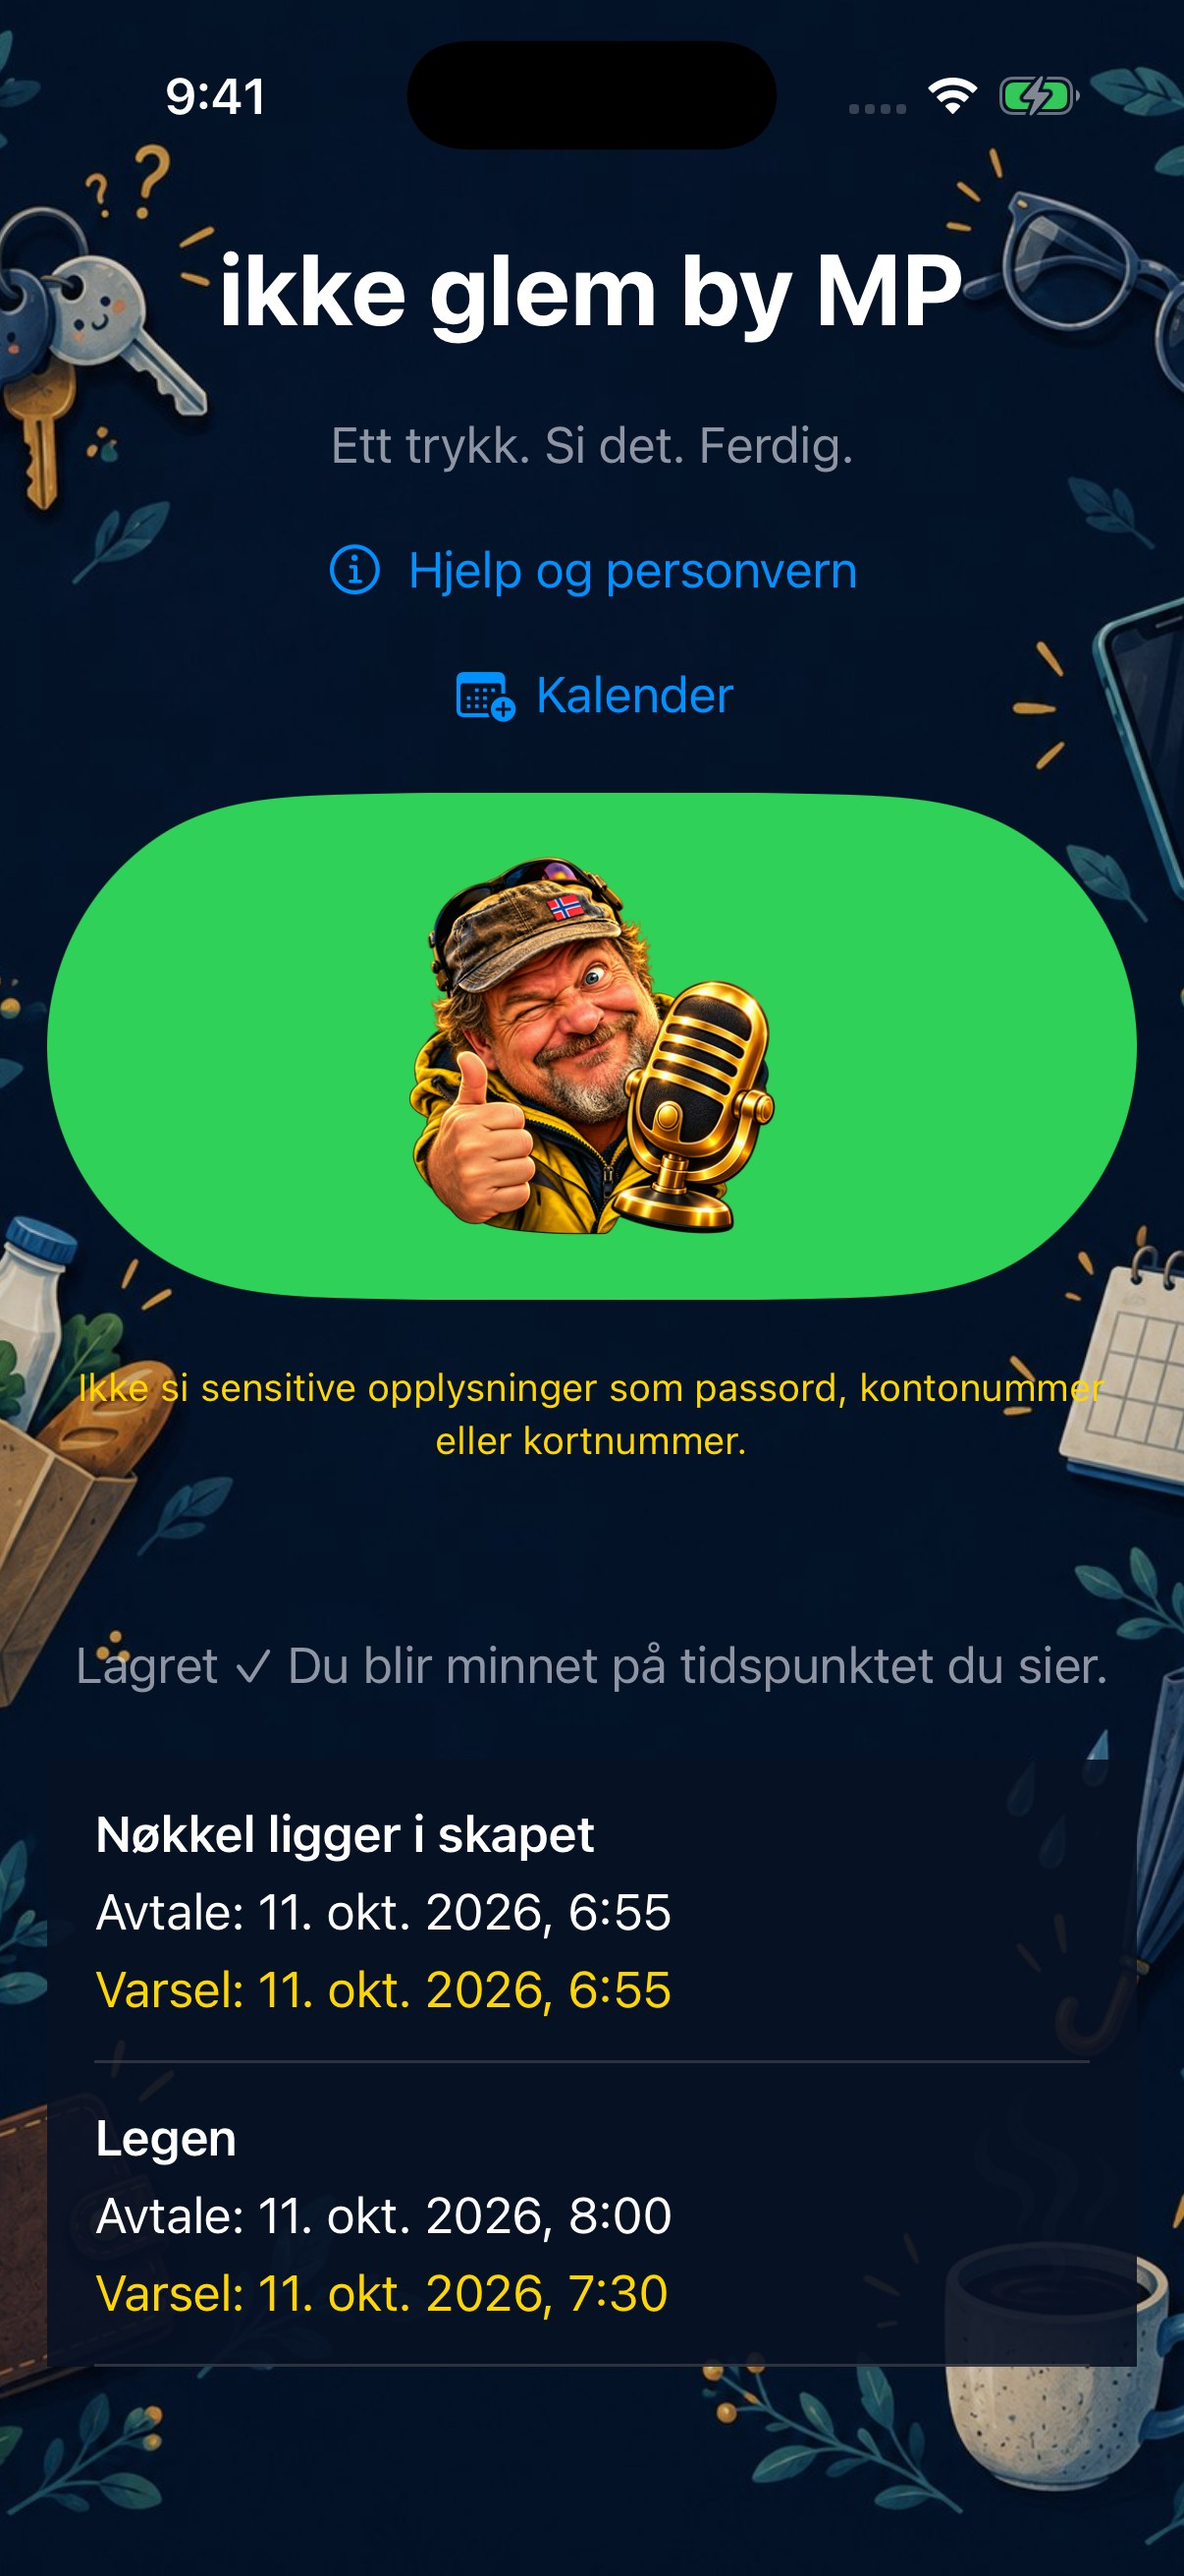
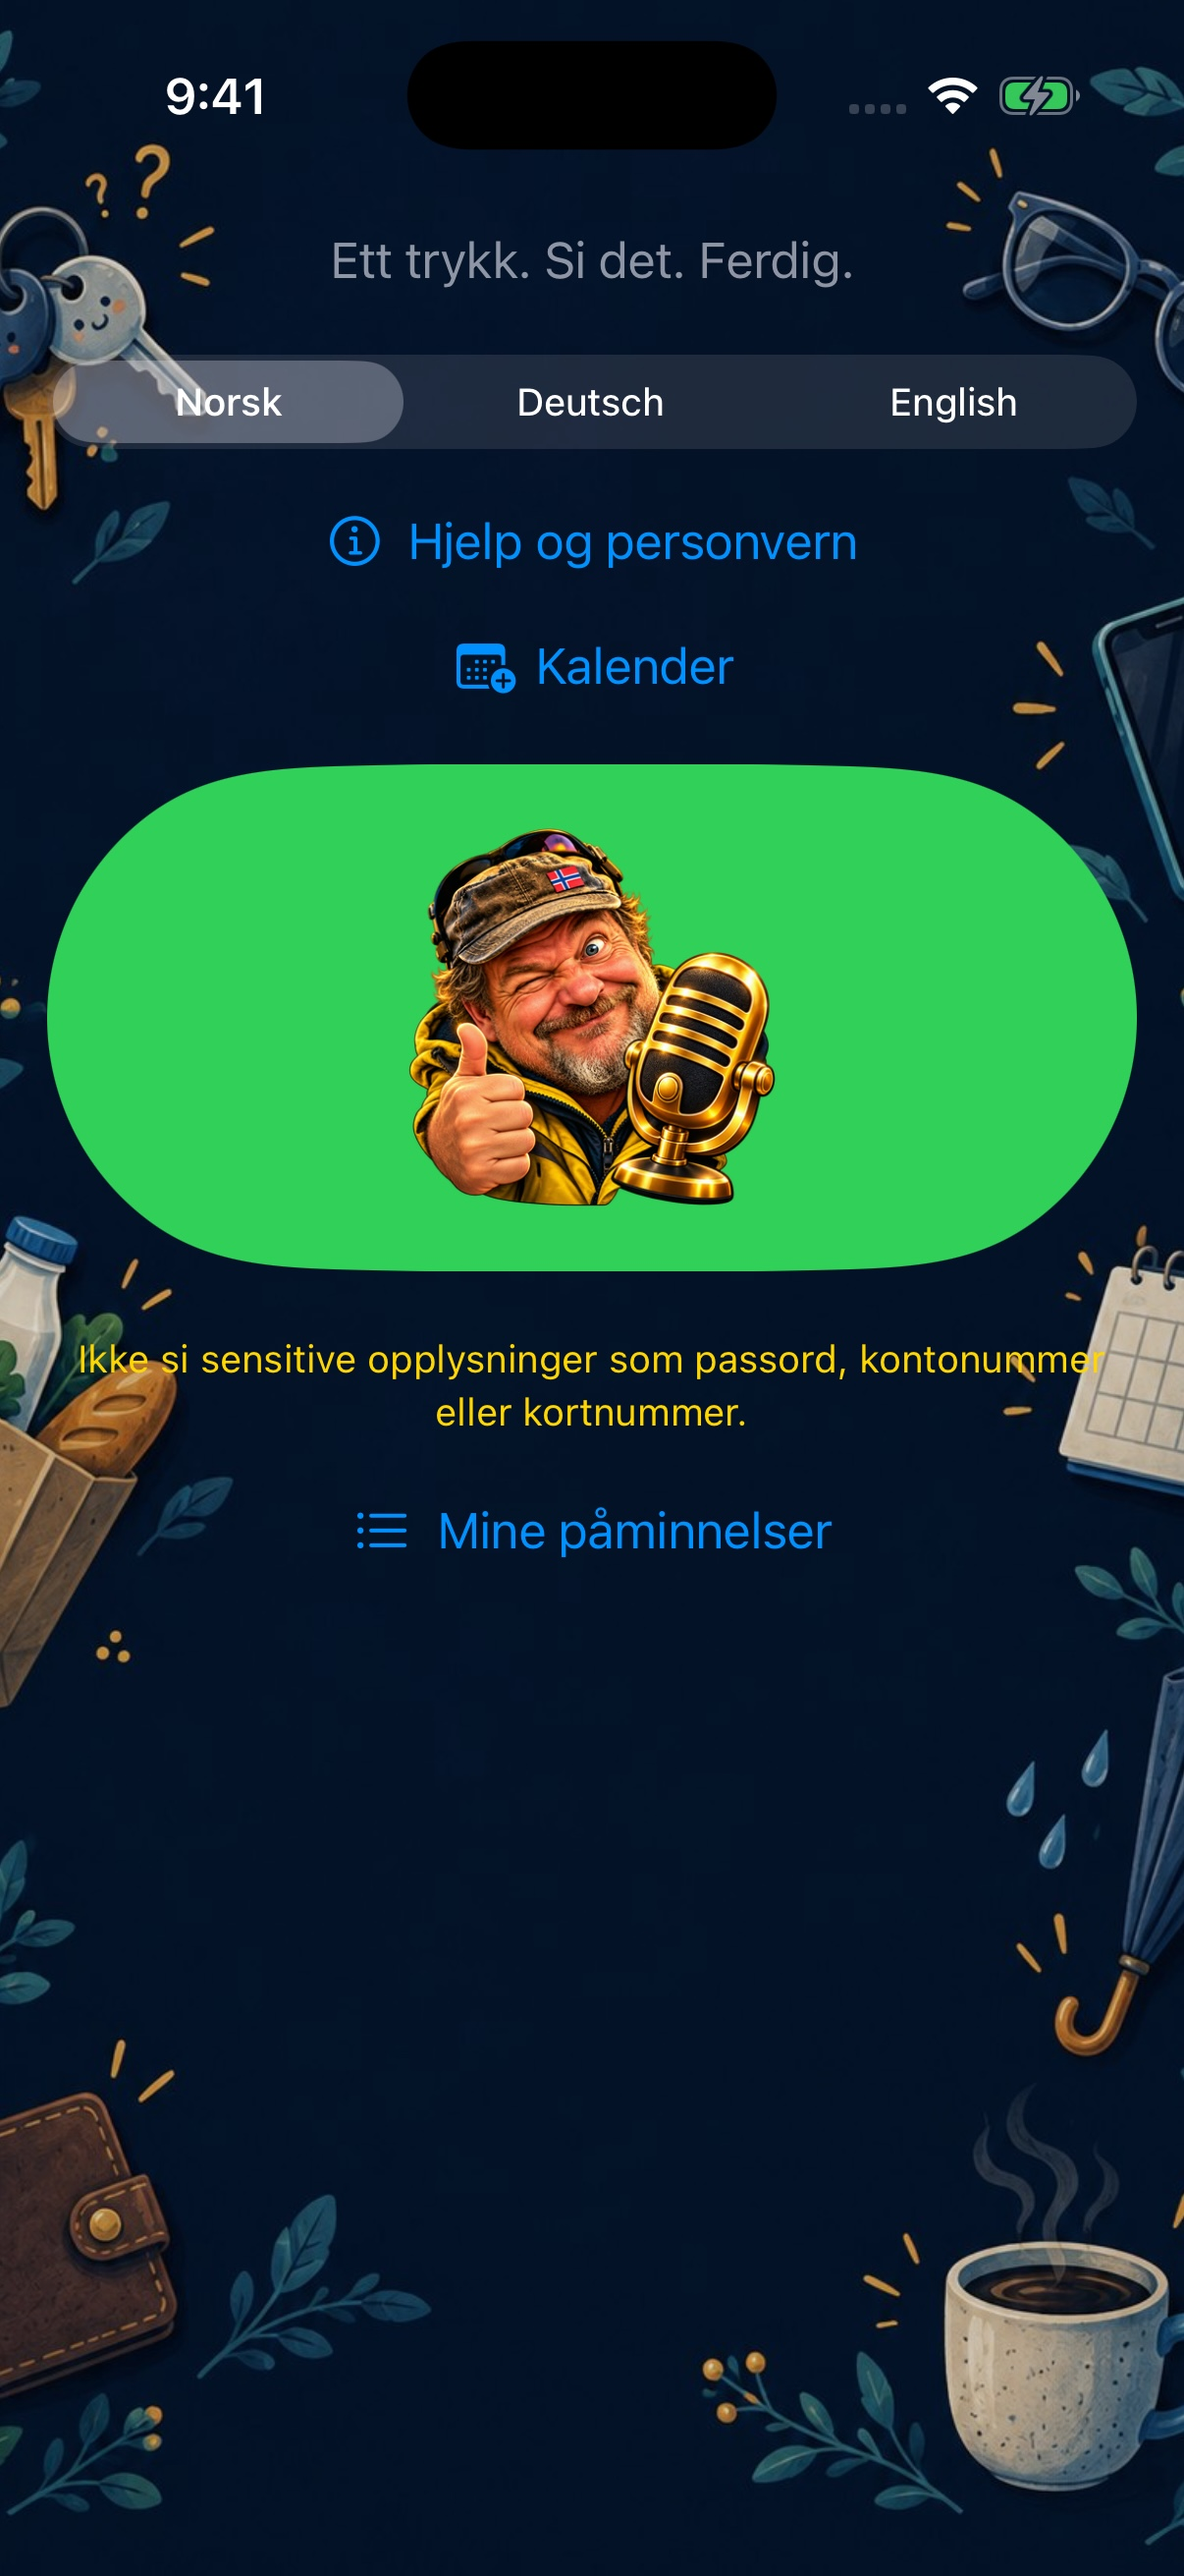
Prepare German, Norwegian and English store listings with Build 6 screenshots

diff --git a/ios/AppStore/metadata-de.md b/ios/AppStore/metadata-de.md
@@ -1,0 +1,60 @@
+# App Store Connect – Deutsch – Version 1.0, Build 6
+
+Name: ikke glem by MP
+Untertitel: Sagen. Merken. Erinnern.
+Kategorie: Produktivität
+
+## Werbetext
+Einmal tippen, sprechen und zur gewünschten Zeit erinnert werden. Auf Deutsch, Norwegisch oder Englisch – mit Kalenderwahl und Adressen in Maps.
+
+## Beschreibung
+Einmal tippen. Sprechen. Fertig.
+
+Mit ikke glem by MP machst du gesprochene Alltagsnotizen zu Erinnerungen auf deinem iPhone. Wähle Deutsch, Norwegisch oder Englisch, tippe auf den grünen Sprachbutton und sage, was du dir merken möchtest und wann du erinnert werden willst.
+
+Zum Beispiel:
+• „Erinnere mich in zehn Minuten.“
+• „Der Schlüssel liegt im Schrank, erinnere mich um 655.“
+• „Arzt morgen um 18 Uhr, erinnere mich um 17:41.“
+• „Arzt morgen um acht, erinnere mich dreißig Minuten vorher.“
+
+Du bestimmst die Erinnerungszeit. Ohne eigene Alarmzeit erinnert dich die App zum Termin. Prüfe nach dem Speichern den erkannten Text und die angezeigten Zeiten.
+
+Das iPhone stellt lokale Mitteilungen auch bei geschlossener App zu. Der Alarmton folgt deinen Einstellungen für Ton, Fokus und Mitteilungen. Die App ist kein kritischer Systemwecker.
+
+Gesprochener Text, Meldungen und die Erinnerungsliste werden nach zehn Sekunden ausgeblendet. Deine Erinnerungen bleiben gespeichert und lassen sich über „Meine Erinnerungen“ wieder anzeigen.
+
+Du entscheidest bei jeder Erinnerung selbst, ob sie zusätzlich in den Kalender übernommen wird. Ein Google-Kalender kann verwendet werden, wenn das Konto bereits in den Kalenderaccounts deines iPhones eingerichtet ist. Adressen lassen sich in Apple Maps öffnen.
+
+Unter „Hilfe und Datenschutz“ kannst du Erinnerungen auch eintippen.
+
+Kein Benutzerkonto, keine Werbung und kein Tracking. Die App speichert Erinnerungen auf deinem iPhone und keine Tonaufnahmen. Apples Spracherkennung kann Internet benötigen und Audio auf Apple-Servern verarbeiten. Kalender und Maps verwenden die Dienste und Konten, die du selbst nutzt.
+
+Bitte sprich oder schreibe keine Passwörter, Konto- oder Kartennummern und keine anderen sensiblen Angaben ein.
+
+## Schlüsselwörter
+erinnerung,termine,sprechen,notizen,kalender,alarm,deutsch,norwegisch,englisch,alltag
+
+## Links
+Support-URL: https://mayos950-sketch.github.io/ikke-glem/support.html
+Datenschutz-URL: https://mayos950-sketch.github.io/ikke-glem/privacy.html
+Marketing-URL: optional, kann leer bleiben.
+
+## Vorschau und Screenshots
+Ein Vorschauvideo ist optional. 01-home.jpg und 02-help.jpg aus Build 6 hochladen (1206 × 2622 Pixel, JPEG ohne Transparenz). Die Screenshots zeigen Norsk mit Auswahl Norsk/Deutsch/English.
+
+## App Review – Hinweise auf Englisch
+No login or demo account is required. Select Deutsch and allow Microphone, Speech Recognition and Notifications. Tap the green voice button and say “Erinnere mich in zwei Minuten”. The reminder is saved after recognition completes or a short pause. Lock the device and wait for the local notification. If speech is unavailable, enter the sentence under “Hilfe und Datenschutz” → “Stattdessen schreiben”. Notifications follow iOS sound and Focus settings.
+
+Speech is available in Norwegian Bokmål, German and English. The recognized sentence, feedback and reminder list disappear after ten seconds without deleting reminders or cancelling notifications. “Meine Erinnerungen” reopens the list.
+
+Calendar saving is optional for each reminder. Tap “In Kalender übernehmen” to save an event. The Google account must already be configured in iOS Calendar; there is no Google sign-in inside the app. Address lookup uses Apple geocoding and Apple Maps, without requesting GPS access.
+
+## Noch selbst ausfüllen
+Copyright: 2026 und dein tatsächlicher Rechteinhabername.
+App-Review-Kontakt: dein Name, erreichbare E-Mail und Telefonnummer.
+Preis und Verfügbarkeit: selbst auswählen.
+Altersfreigabe: Fragebogen entsprechend dem tatsächlichen App-Inhalt beantworten.
+App-Datenschutz: Angaben anhand von privacy-review.md prüfen und veröffentlichen.
+EU-Händlerstatus: entsprechend deinem tatsächlichen Status angeben.
+Versionsfreigabe: manuelle Freigabe wählen, wenn du den Veröffentlichungszeitpunkt selbst bestimmen möchtest.

diff --git a/ios/AppStore/metadata-en.md b/ios/AppStore/metadata-en.md
@@ -1,0 +1,60 @@
+# App Store Connect – English – Version 1.0, Build 6
+
+Name: ikke glem by MP
+Subtitle: Say it. Remember it.
+Category: Productivity
+
+## Promotional text
+One tap, a spoken reminder and an alert when you choose. In Norwegian, German or English, with optional calendar events and addresses in Maps.
+
+## Description
+One tap. Speak. Done.
+
+Turn everyday spoken notes into reminders on your iPhone with ikke glem by MP. Choose Norwegian, German or English, tap the green voice button and say what you want to remember and when you want to be reminded.
+
+For example:
+• “Remind me in ten minutes.”
+• “The key is in the cupboard, remind me at 655.”
+• “Doctor tomorrow at 18:00, remind me at 17:41.”
+• “Doctor tomorrow at eight, remind me thirty minutes before.”
+
+You choose the reminder time. Without a separate alert time, the app reminds you at the appointment. Check the recognized text and displayed times after saving.
+
+iPhone schedules local notifications even when the app is closed. Notification sound follows your iPhone sound, Focus and notification settings. This app is not a critical alarm.
+
+The recognized text, messages and reminder list disappear from the screen after ten seconds. Your reminders remain saved and can be viewed again using “My reminders”.
+
+You decide which reminders are also added to your calendar. A Google calendar can be used if its account is already configured in your iPhone calendar accounts. Addresses can be opened in Apple Maps.
+
+Prefer typing? Enter a reminder under “Help and privacy”.
+
+No user account, advertising or tracking. Reminders are stored on your iPhone, and the app does not store audio recordings. Apple speech recognition may require internet access and process audio on Apple servers. Calendar and Maps use the services and accounts you choose.
+
+Do not speak or type passwords, bank account numbers, card numbers or other sensitive information.
+
+## Keywords
+reminder,appointments,voice,notes,calendar,alert,norwegian,german,english,everyday
+
+## Links
+Support URL: https://mayos950-sketch.github.io/ikke-glem/support.html
+Privacy Policy URL: https://mayos950-sketch.github.io/ikke-glem/privacy.html
+Marketing URL: optional; may be left empty.
+
+## Screenshots and preview
+An app preview video is optional. Upload the Build 6 screenshots 01-home.jpg and 02-help.jpg (1206 × 2622, JPEG). These images show the Norwegian interface with the language selector.
+
+## App Review notes
+No login or demo account is required. Choose English, allow Microphone, Speech Recognition and Notifications, then tap the green voice button and say “Remind me in two minutes”. The reminder is saved after recognition completes or a short pause. Lock the device and wait for the local notification. If speech is unavailable, type the same sentence under “Help and privacy” → “Type instead”.
+
+Norwegian Bokmål, German and English are supported. The recognized sentence, feedback and reminder list disappear after ten seconds without deleting reminders or cancelling notifications. “My reminders” shows the list again.
+
+Calendar saving is optional for each reminder. Tap “Add to calendar” to save an event. A Google account must already be configured in iOS Calendar; there is no Google sign-in inside the app. Addresses use Apple geocoding and Apple Maps; GPS access is not requested.
+
+Custom notification audio is bundled. iOS sound, notification and Focus settings apply. The app does not use Critical Alerts.
+
+## Personal details to complete
+Copyright: 2026 and the actual rights holder name.
+App Review contact: your name, reachable email and phone number.
+Choose pricing, availability, age rating and EU trader status according to your actual situation.
+Complete and publish App Privacy using privacy-review.md.
+Choose manual release if you want control of the publication date.
